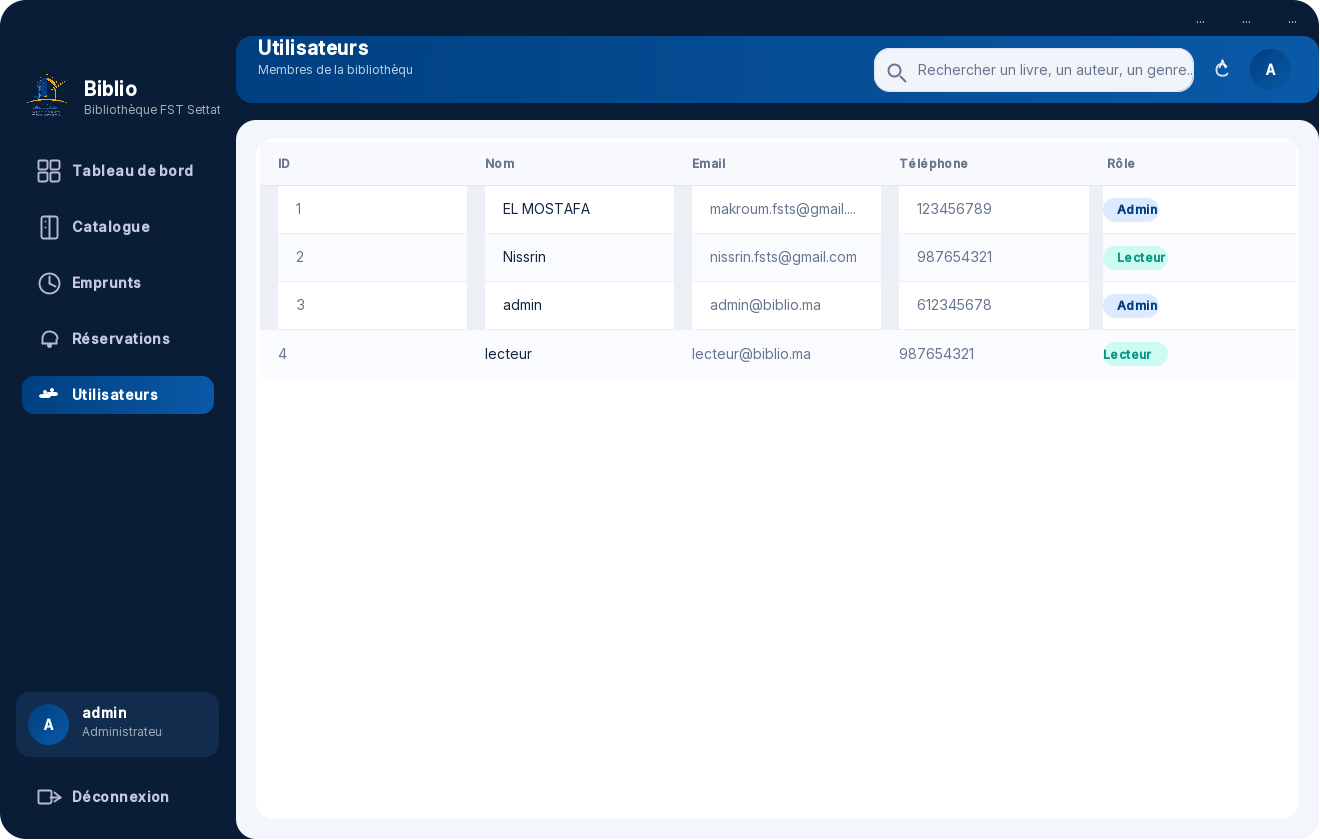
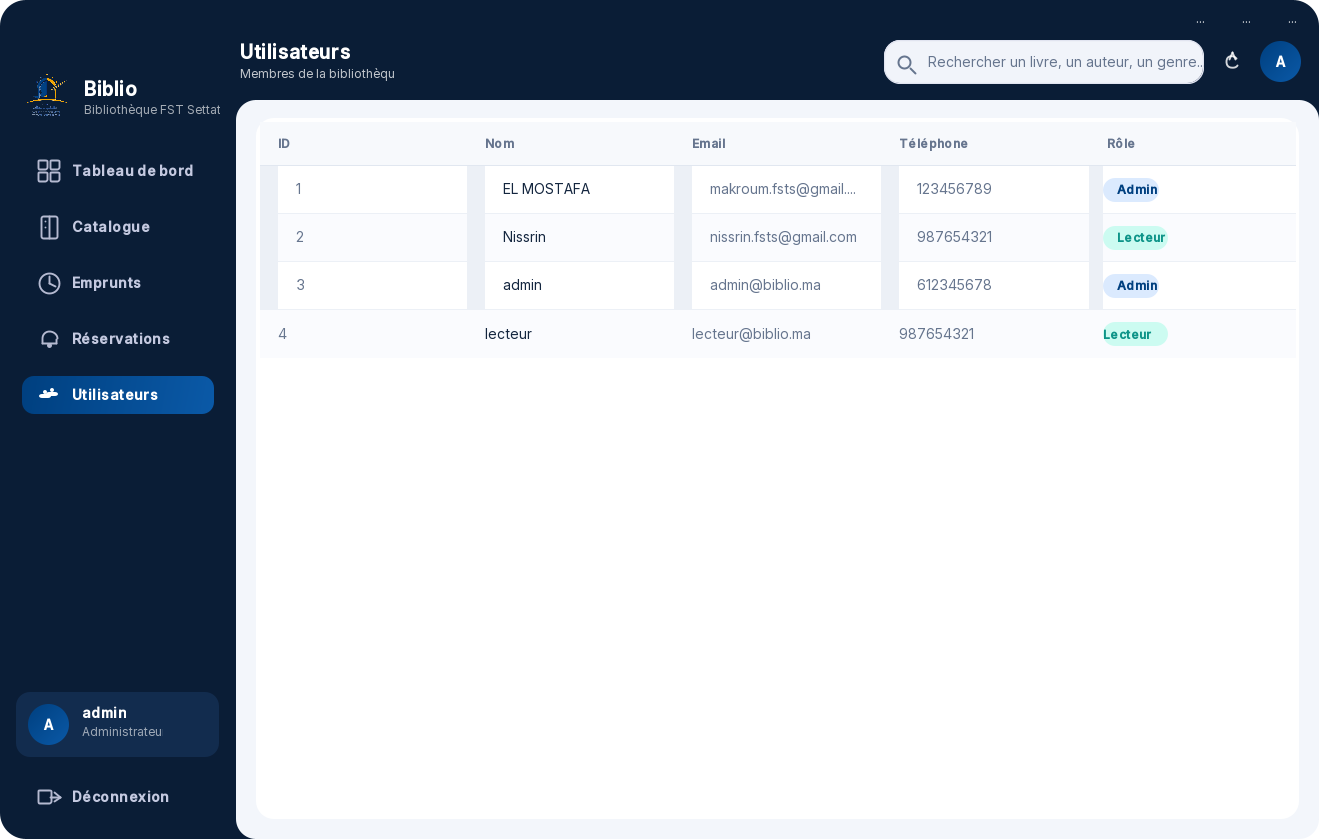
Remove header border and match side-menu background color seamlessly

Changed region(s): [[0.1553, 0.031, 1.0, 0.4333]]

diff --git a/src/gui/BiblioGUI.java b/src/gui/BiblioGUI.java
@@ -102,12 +102,10 @@ public class BiblioGUI extends JFrame {
     private JPanel buildHeader() {
         JPanel wrap = new JPanel(new BorderLayout());
         wrap.setOpaque(false);
-        wrap.setBorder(BorderFactory.createEmptyBorder(0, 0, 16, 0));
+        wrap.setBorder(BorderFactory.createEmptyBorder(4, 4, 16, 8));
 
-        RoundedPanel head = new RoundedPanel(Theme.PRIMARY, 16);
-        head.setGradient(Theme.PRIMARY, Theme.PRIMARY_2);
-        head.setLayout(new BorderLayout());
-        head.setBorder(BorderFactory.createEmptyBorder(0, 22, 0, 18));
+        JPanel head = new JPanel(new BorderLayout());
+        head.setOpaque(false);
 
         JPanel tt = new JPanel();
         tt.setOpaque(false);
@@ -123,7 +121,7 @@ public class BiblioGUI extends JFrame {
         tt.add(pageSub);
         head.add(tt, BorderLayout.WEST);
 
-        JPanel right = new JPanel(new FlowLayout(FlowLayout.RIGHT, 10, 12));
+        JPanel right = new JPanel(new FlowLayout(FlowLayout.RIGHT, 10, 0));
         right.setOpaque(false);
 
         headerSearch = new SearchField();
